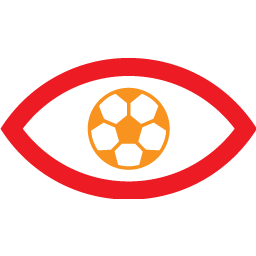
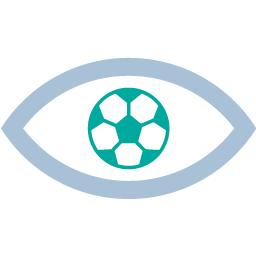
New blue theme

Changed region(s): [[0.0, 0.2188, 1.0, 0.7812]]

diff --git a/VisuaLigue/src/main/resources/css/main.fxml.css b/VisuaLigue/src/main/resources/css/main.fxml.css
@@ -181,7 +181,7 @@
 }
 
 .form-section .section-header {
-    -fx-background-color: #F7931E;
+    -fx-background-color: #A9C1D6;
     -fx-pref-height: 38;
     -fx-alignment: CENTER_LEFT;
     -fx-padding: 0 0 0 10;
@@ -237,7 +237,7 @@
     -fx-background-color: #F3F1EF;
     -fx-padding: 0 7 0 3;
     -fx-border-width: 0 0 0 4;
-    -fx-border-color: #F7931E;
+    -fx-border-color: #A9C1D6;
 }
 
 .grid-list .header {

diff --git a/VisuaLigue/src/main/resources/css/breadcrumb-nav-bar.fxml.css b/VisuaLigue/src/main/resources/css/breadcrumb-nav-bar.fxml.css
@@ -16,5 +16,5 @@
 }
 
 .breadcrumb-title-item.active {
-    -fx-border-color: #F7931E;
+    -fx-border-color: #A9C1D6;
 }

diff --git a/VisuaLigue/src/main/resources/images/app-title.fxml.css b/VisuaLigue/src/main/resources/images/app-title.fxml.css
@@ -1,3 +1,3 @@
 
-	.st0{-fx-fill:#F7931E;}
-	.st1{-fx-fill:#ED1C24;}
+	.st0{-fx-fill:#A9C1D6;}
+	.st1{-fx-fill:#00A99D;}

diff --git a/VisuaLigue/src/main/resources/images/logo.fxml.css b/VisuaLigue/src/main/resources/images/logo.fxml.css
@@ -1,3 +1,3 @@
 
-	.st0{-fx-fill:#ED1C24;}
-	.st1{-fx-fill:#F7931E;}
+.st0{-fx-fill:#A9C1D6;}
+.st1{-fx-fill:#00A99D;}
